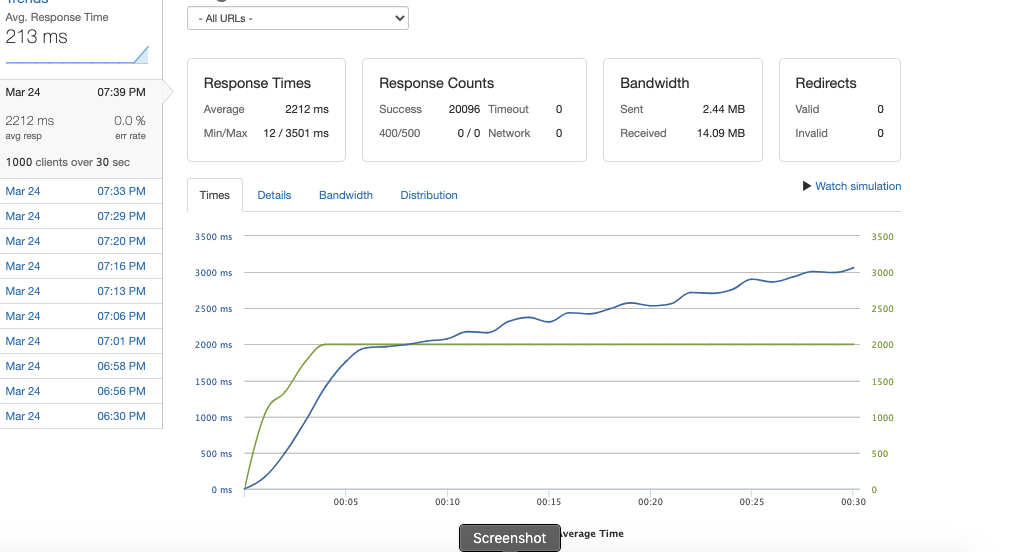
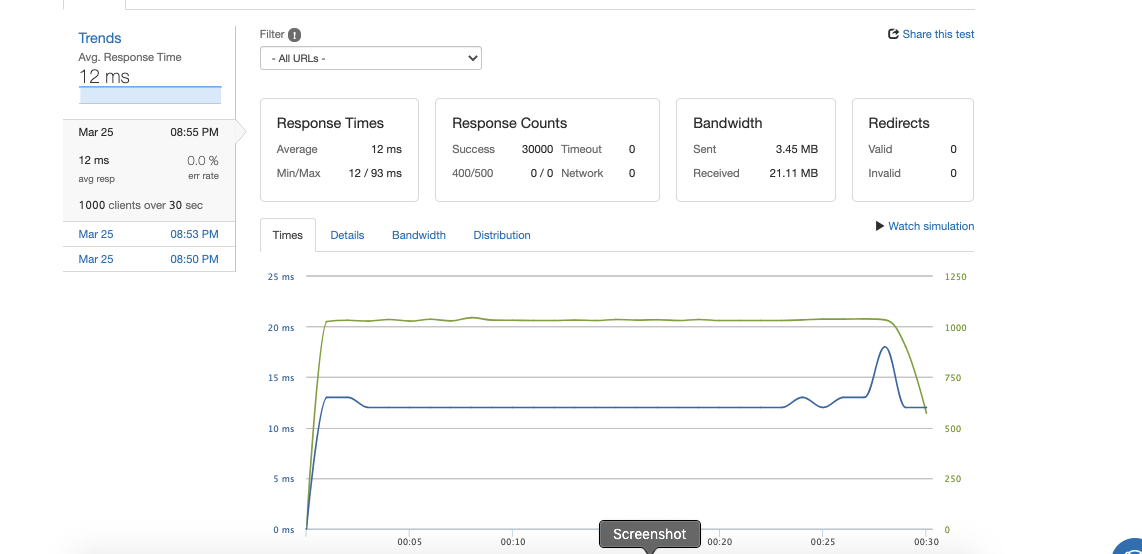
Test image corrections

diff --git a/README.md b/README.md
@@ -61,9 +61,23 @@ The minimum requirements were as follows:
 Initial testing for all endpoints passed these requirements with the latency measuring between 12-13ms. These numbers remained consistent until stress loads of over 500 RPS were introduced.
 
 **Results After Redis Caching**
+
 After Redis Caching was implemented, server performance increased significantly for all endpoints as shown in the examples below:
 
+**/styles Loader Results Initial**
+
+|             | Stress Load | Latency | Error Rate | Success Rate |
+| ----------- | ----------- | ------- | ---------- | ------------ |
+| **/styles** | 1000 RPS    | 2212ms  | 0%         | 66%          |
+
 ![Initial styles loader test](imgs/styles-initial.png '/styles Initial Loader Results')
+
+**/styles Post Redis Caching Results**
+
+|             | Stress Load | Latency | Error Rate | Success Rate |
+| ----------- | ----------- | ------- | ---------- | ------------ |
+| **/styles** | 1000 RPS    | 12ms    | 0%         | 100%         |
+
 ![Post Redis styles loader test](imgs/styles-post-redis.png '/styles Post Redis Loader Results')
 
 ## Notes
